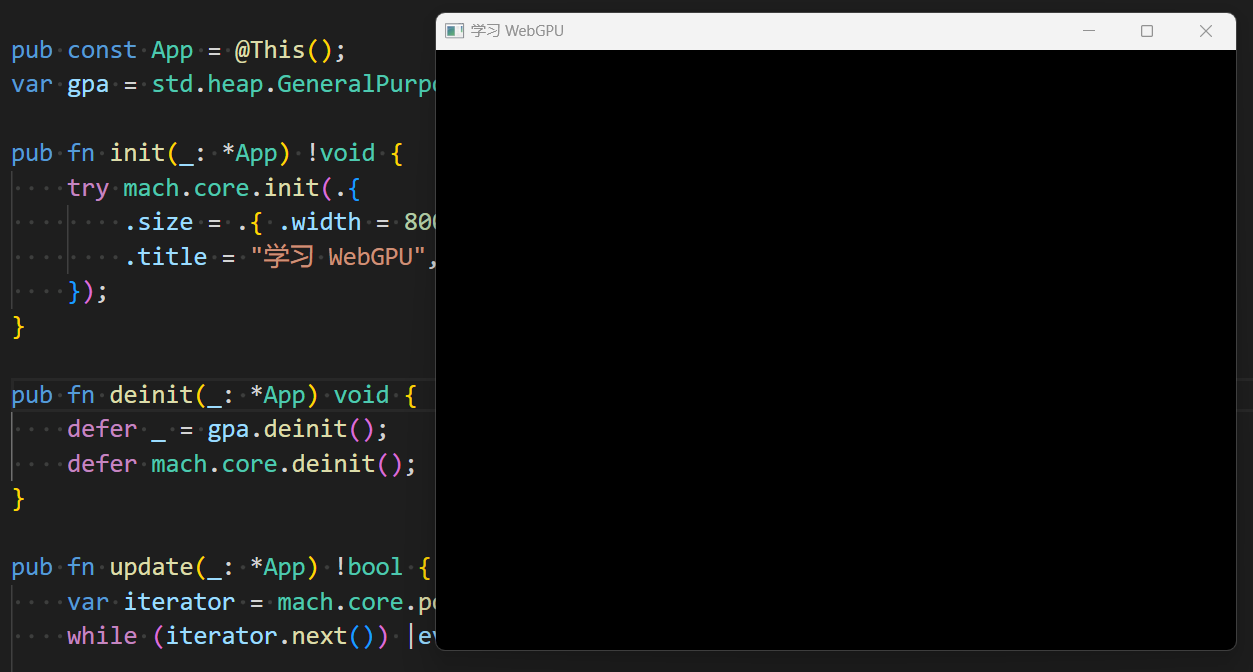
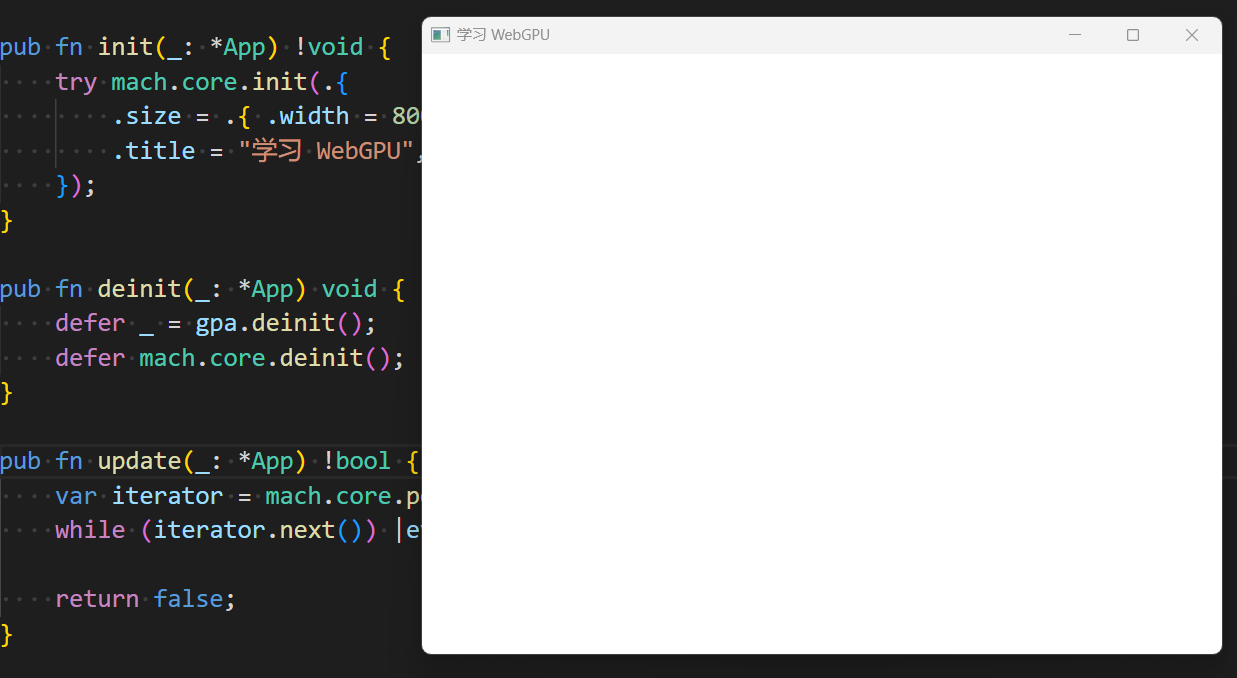
提交博客

diff --git a/2023/202312/0503-WebGPU-初始化窗口.md b/2023/202312/0503-WebGPU-初始化窗口.md
@@ -99,31 +99,6 @@ pub fn update(_: *App) !bool {
     var iterator = mach.core.pollEvents();
     while (iterator.next()) |event| if (event == .close) return true;
 
-    const view = mach.core.swap_chain.getCurrentTextureView().?;
-    const colorAttachment = mach.gpu.RenderPassColorAttachment{
-        .view = view,
-        .clear_value = mach.gpu.Color{ .r = 0, .g = 0, .b = 0, .a = 1.0 },
-        .load_op = .clear,
-        .store_op = .store,
-    };
-
-    const encoder = mach.core.device.createCommandEncoder(null);
-    const renderPass = mach.gpu.RenderPassDescriptor.init(.{
-        .color_attachments = &.{colorAttachment},
-    });
-
-    const pass = encoder.beginRenderPass(&renderPass);
-    pass.end();
-    pass.release();
-
-    var command = encoder.finish(null);
-    encoder.release();
-
-    var queue = mach.core.queue;
-    queue.submit(&[_]*mach.gpu.CommandBuffer{command});
-    command.release();
-    mach.core.swap_chain.present();
-    view.release();
     return false;
 }
 ```
